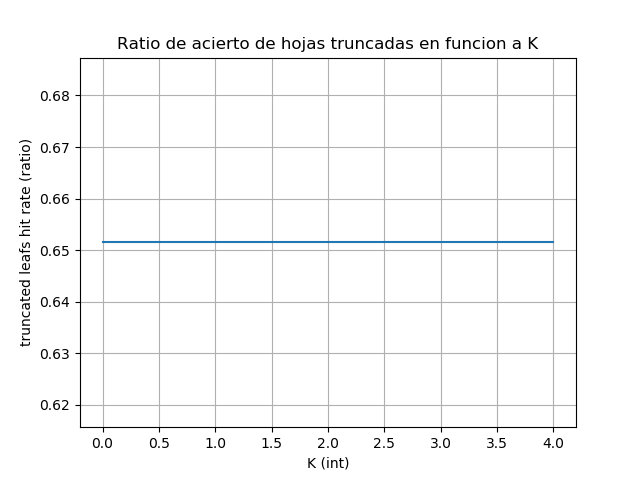
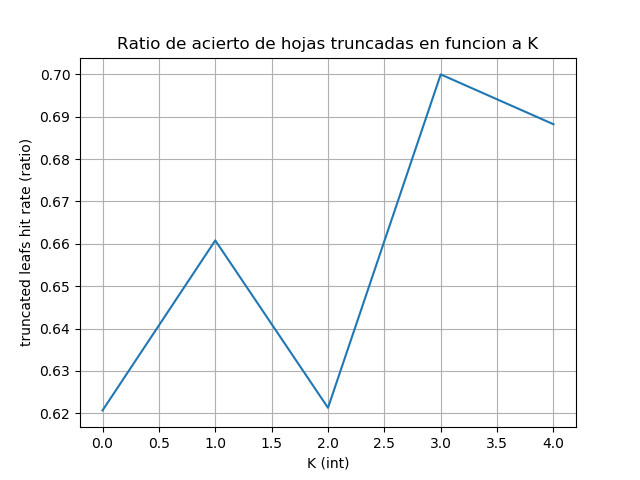
ADD: Graphs displayeandose BUG: No para la ejecución TODO: get_result recursivo hasta acertar

diff --git a/src/templates/testing_result.html b/src/templates/testing_result.html
@@ -1,0 +1,99 @@
+<!DOCTYPE html>
+<html>
+<head>
+    <meta charset="utf-8">
+    <meta name="viewport" content="width=device-width, initial-scale=1">
+    <title>Resultados</title>
+    <link rel="icon" type="image/png" href="../static/images/logos/flask.png">
+    <link rel="stylesheet" href="../static/css/bulma.min.css">
+    <script defer src="../static/css/all.js"></script>
+</head>
+<body>
+<nav class="navbar is-dark" role="navigation" aria-label="main navigation">
+    <div class="navbar-brand">
+        <a class="navbar-item" href="https://bulma.io">
+            <img src="../static/images/logos/bulma-logo-white.png" width="112" height="28">
+        </a>
+
+        <a class="navbar-item" href="http://flask.pocoo.org/" style="margin-left: 10px">
+            <img src="../static/images/logos/logo-flask-recortado.png" width="24" height="40">
+        </a>
+    </div>
+
+    <div id="navbarBasicExample" class="navbar-menu" style="margin-left: 20px">
+        <div class="navbar-start">
+            <a class="navbar-item" href="/">
+                Inicio
+            </a>
+            <a class="navbar-item" href="/form">
+                Implementación
+            </a>
+
+            <a class="navbar-item" href="/testing">
+                Pruebas
+            </a>
+        </div>
+        <div class="navbar-end">
+            <a class="navbar-item" href="/about">
+                Acerca de..
+            </a>
+        </div>
+    </div>
+</nav>
+
+{% if vary == 'quorum' %}
+    <section class="section">
+        <div class="container is-fullhd">
+            <div class="notification" style="padding:20px">
+                <div class="columns">
+                  <div class="column">
+                    <img src="../static/graphs/quorum_hit_rate.png">
+                  </div>
+                  <div class="column">
+                    <img src="../static/graphs/quorum_leaf_count.png">
+                  </div>
+                </div>
+                <div class="columns">
+                  <div class="column">
+                    <img src="../static/graphs/quorum_id3_hit_rate.png">
+                  </div>
+                  <div class="column">
+                    <img src="../static/graphs/quorum_trunc_hit_rate.png">
+                  </div>
+                  <div class="column">
+                    <img src="../static/graphs/quorum_none_hit_rate.png">
+                  </div>
+                </div>
+            </div>
+        </div>
+    </section>
+{% else %}
+  <section class="section">
+        <div class="container is-fullhd">
+            <div class="notification" style="padding:20px">
+                <div class="columns">
+                  <div class="column">
+                    <img src="../static/graphs/k_hit_rate.png">
+                  </div>
+                  <div class="column">
+                    <img src="../static/graphs/k_trunc_hit_rate.png">
+                  </div>
+                  <div class="column">
+                    <img src="../static/graphs/k_none_hit_rate.png">
+                  </div>
+                </div>
+            </div>
+        </div>
+    </section>
+{% endif %}
+
+
+<section class="section">
+    <div class="container is-fullhd">
+        <div class="notification" style="padding:20px">
+            <textarea class="textarea" name="textarea" style="width: 100%; height: 70vh" disabled>{{result}}</textarea>
+        </div>
+    </div>
+</section>
+</body>
+</html>

diff --git a/src/testing/__init__.py b/src/testing/__init__.py
@@ -1,6 +1,7 @@
 from id3 import create_tree
 import matplotlib.pyplot as plt
 import numpy as np
+import matplotlib.patches as mpatches
 
 
 def test(dataset, train_percent, shuffle, trees, vary, quorum_min, quorum_max, quorum_quorum_type, quorum_interval, quorum_k,
@@ -144,20 +145,21 @@ def test(dataset, train_percent, shuffle, trees, vary, quorum_min, quorum_max, q
                    "hit rate (ratio)", "Ratio de acierto en funcion a K", "k_hit_rate",
                    list(hit_percent.values()))
         # Cuenta de hojas
-        save_graph(int(k_min), int(k_max), 1, "K (int)",
-                   "no. hojas (int)", "Número de hojas en funcion a K", "k_leaf_count",
-                   list(leaf_count2["id3"].values()), list(leaf_count2["trunc"].values()),
-                   list(leaf_count2["none"].values()))
+        # save_graph(int(k_min), int(k_max), 1, "K (int)",
+        #            "no. hojas (int)", "Número de hojas en funcion a K", "k_leaf_count",
+        #            list(leaf_count2["id3"].values()), list(leaf_count2["trunc"].values()),
+        #            list(leaf_count2["none"].values()))
+
         # Ratio de acierto por tipo de hoja
-        save_graph(int(k_min), int(k_max), 1, "K (int)",
-                   "ID3 hit rate (ratio)", "Ratio de acierto de id3 en funcion a K",
-                   "k_id3_hit_rate", list(leaf_hit_percent2["id3"].values()))
         save_graph(int(k_min), int(k_max), 1, "K (int)",
                    "truncated leafs hit rate (ratio)", "Ratio de acierto de hojas truncadas en funcion a K",
                    "k_trunc_hit_rate", list(leaf_hit_percent2["trunc"].values()))
         save_graph(int(k_min), int(k_max), 1, "K (int)",
                    "failed leafs hit rate (ratio)", "Ratio de acierto de hojas fallidas en funcion a K",
                    "k_none_hit_rate", list(leaf_hit_percent2["none"].values()))
+        # save_graph(int(k_min), int(k_max), 1, "K (int)",
+        #            "ID3 hit rate (ratio)", "Ratio de acierto de id3 en funcion a K",
+        #            "k_id3_hit_rate", list(leaf_hit_percent2["id3"].values()))
 
     return str(hit_percent) + "\n\n" + str(leaf_count) + "\n\n" + str(leaf_hit_percent)
 
@@ -182,8 +184,14 @@ def save_graph(x1, x2, x3, xlabel, ylabel, title, filename, y1, y2=None, y3=None
         ax.plot(t, y2)
     if y3 is not None:
         ax.plot(t, y3)
+        orange_patch = mpatches.Patch(color='orange', label='Truncada')
+        green_patch = mpatches.Patch(color='green', label='ID3')
+        blue_patch = mpatches.Patch(color='blue', label='None')
+        plt.legend(handles=[orange_patch, green_patch, blue_patch])
 
     ax.set(xlabel=xlabel, ylabel=ylabel, title=title)
     ax.grid()
 
     fig.savefig("static/graphs/" + filename + ".png")
+    plt.close('all')
+

diff --git a/src/app.py b/src/app.py
@@ -50,7 +50,7 @@ def testing():
         result = test(data["dataset"], data["train"], shuffle, data["trees"], data["vary"], data["quorum_min"],
                       data["quorum_max"], data["quorum_quorum_type"], data["quorum_interval"], data["quorum_k"],
                       data["k_min"], data["k_max"], data["k_quorum"], data["k_quorum_type"])
-        return render_template('result.html', result=result)
+        return render_template('testing_result.html', result=result, vary=data["vary"])
     else:
         return render_template('testing_form.html')
 
